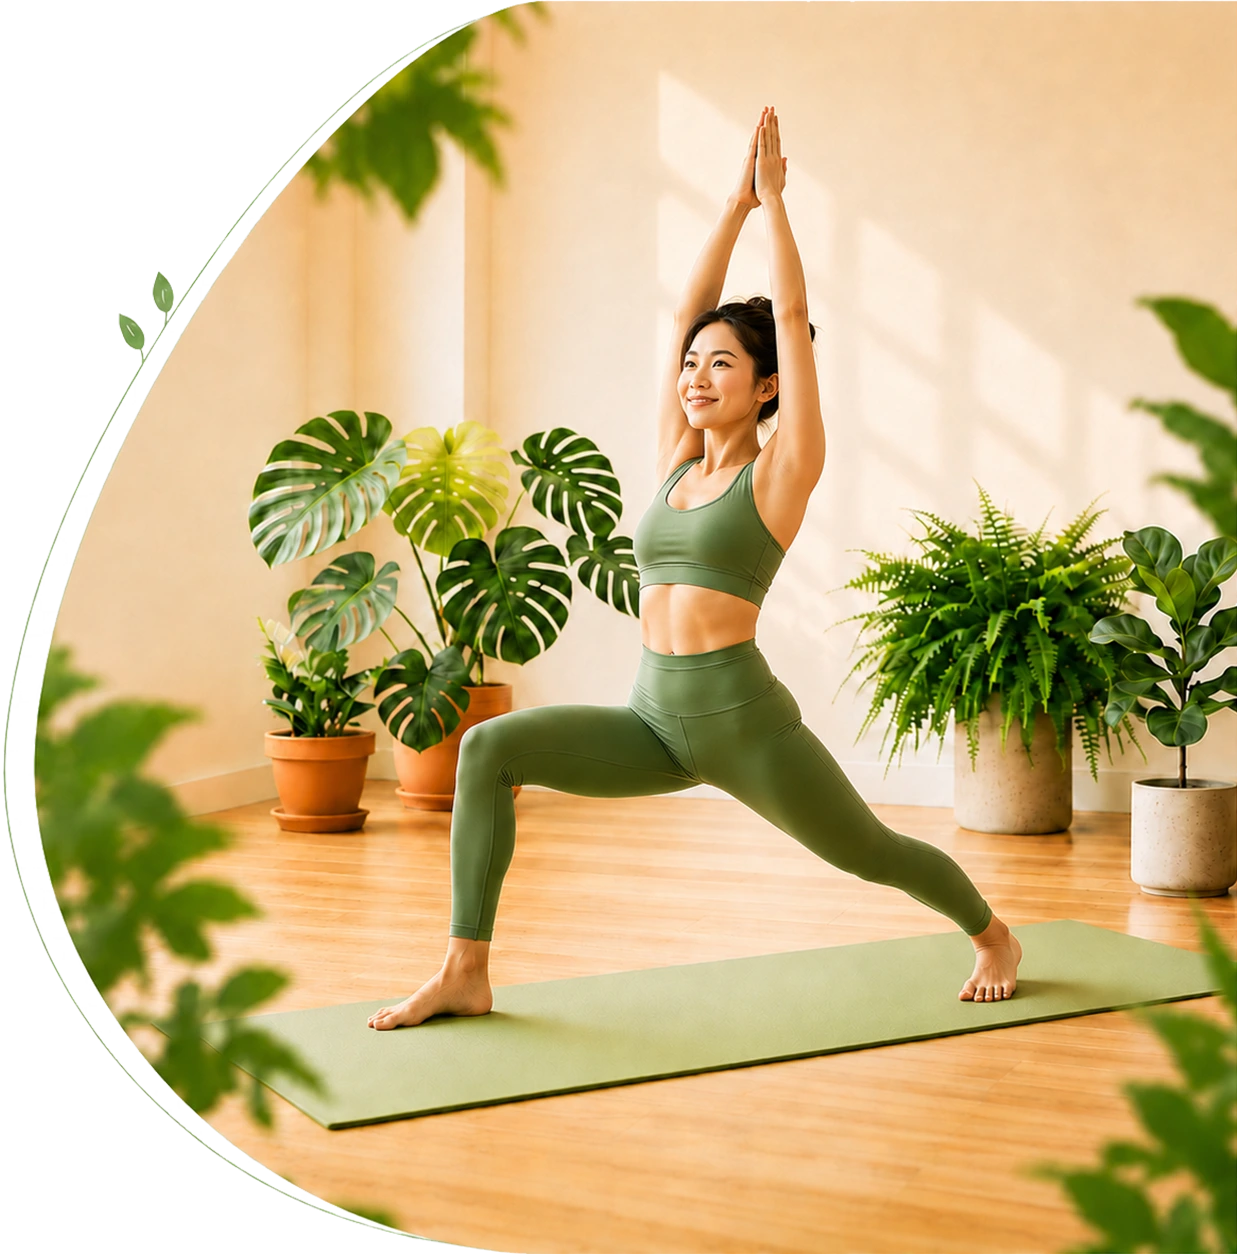
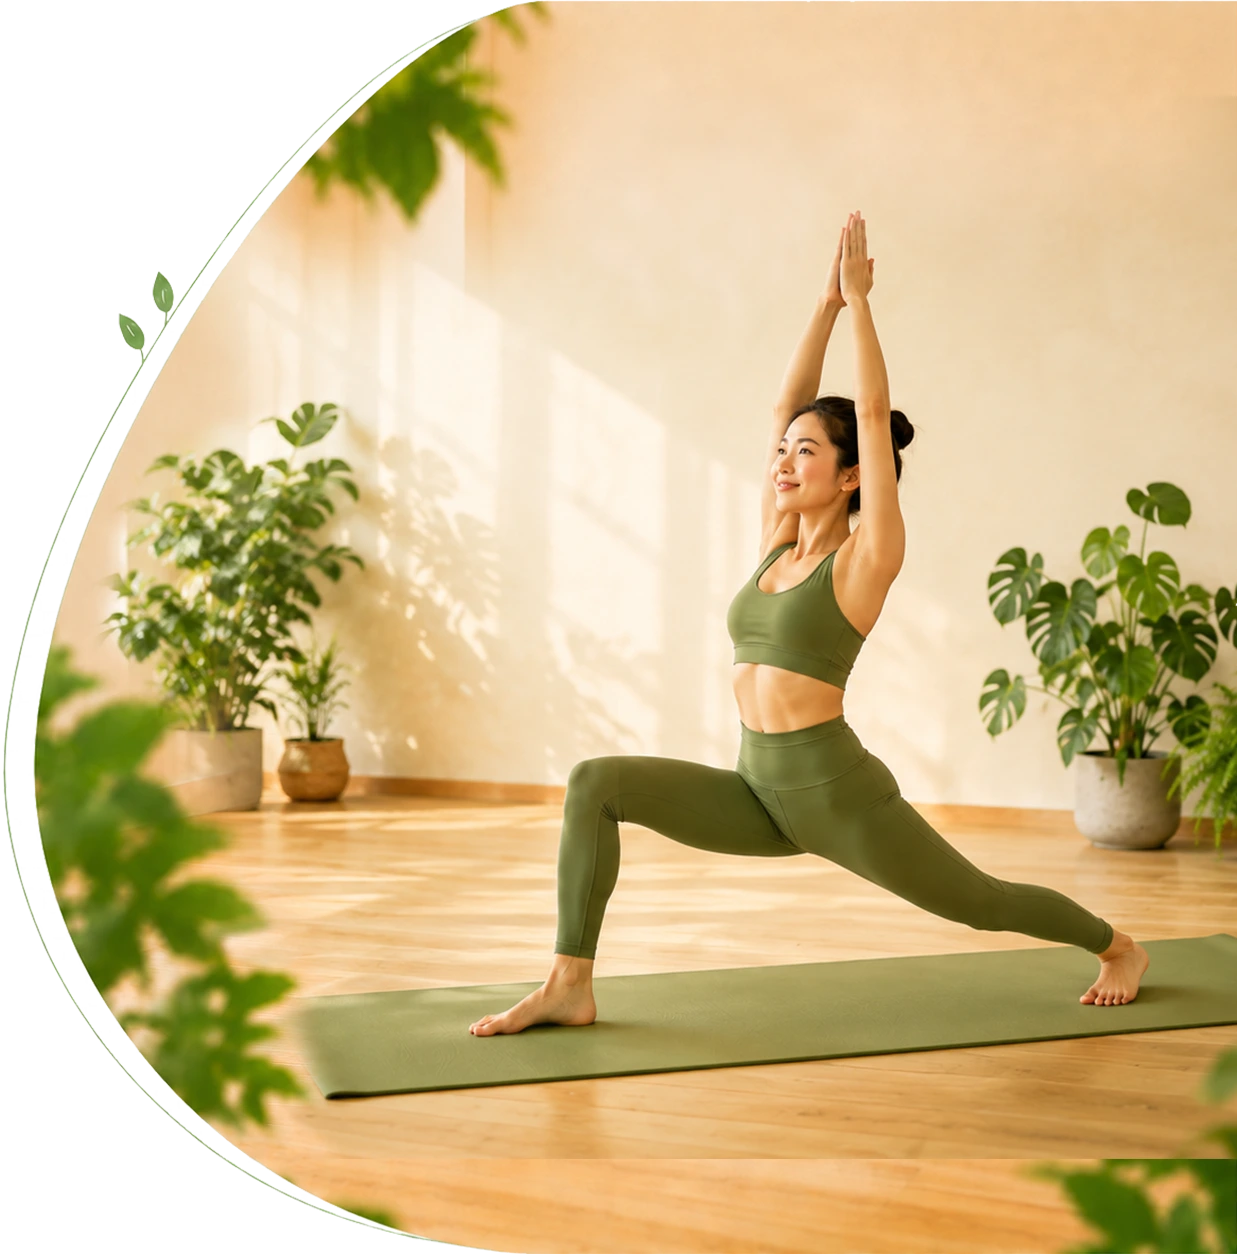
Hero visual mới

diff --git a/css/style.css b/css/style.css
@@ -635,26 +635,34 @@ p { color: var(--gray-600); }
 
 .hero-image .floating-card {
   position: absolute;
-  background: rgba(255,255,255,0.95);
-  backdrop-filter: blur(10px);
+  background: rgba(255,255,255,0.72);
+  backdrop-filter: blur(12px);
+  -webkit-backdrop-filter: blur(12px);
   border-radius: var(--radius-lg);
-  padding: 16px 20px;
-  box-shadow: var(--shadow-lg);
+  padding: 10px 14px;
+  box-shadow: 0 4px 20px rgba(0,0,0,0.08);
   display: flex;
   align-items: center;
-  gap: 12px;
-  animation: float 3s ease-in-out infinite;
+  gap: 8px;
+  transform: scale(0.72);
+  transform-origin: center;
+  animation: badgeUpDown 3.5s ease-in-out infinite;
+}
+
+@keyframes badgeUpDown {
+  0%, 100% { transform: scale(0.72) translateY(0); }
+  50% { transform: scale(0.72) translateY(-10px); }
 }
 
 .hero-image .floating-card.card-1 {
-  top: 24px;
-  right: 40px;
+  top: 8px;
+  right: -16px;
 }
 
 .hero-image .floating-card.card-2 {
-  bottom: 40px;
-  right: 40px;
-  animation-delay: 1.5s;
+  bottom: 24px;
+  right: -16px;
+  animation-delay: 1.8s;
 }
 
 .floating-card .card-icon {

diff --git a/index.html b/index.html
@@ -11,7 +11,7 @@
   <meta property="og:image" content="https://mayyoga.health/assets/images/hero.webp">
   <meta property="og:locale" content="vi_VN">
   <meta property="og:site_name" content="Mây Yoga">
-  <link rel="stylesheet" href="css/style.css?v=4">
+  <link rel="stylesheet" href="css/style.css?v=6">
   <link rel="icon" type="image/x-icon" href="favicon.ico">
   <link rel="apple-touch-icon" href="apple-touch-icon.png">
   <link rel="canonical" href="https://mayyoga.health/">